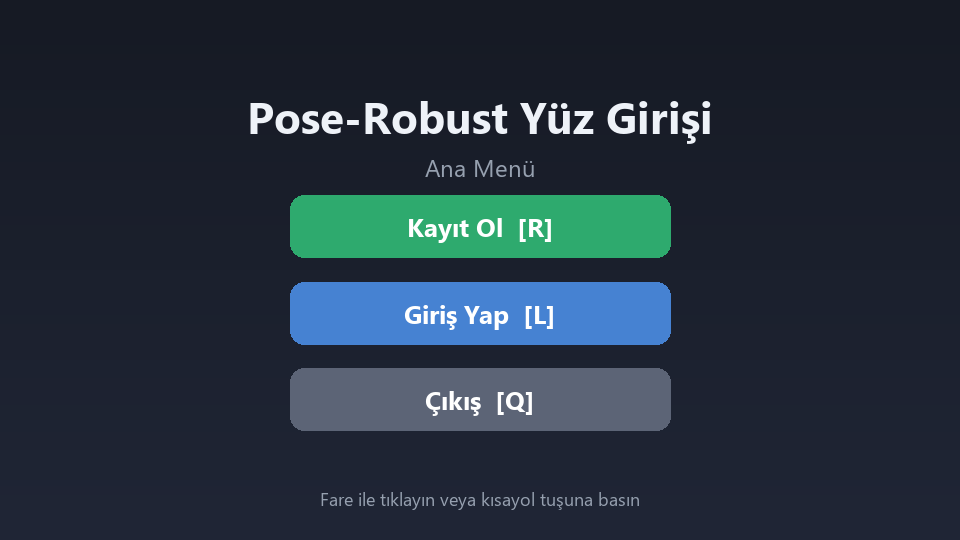
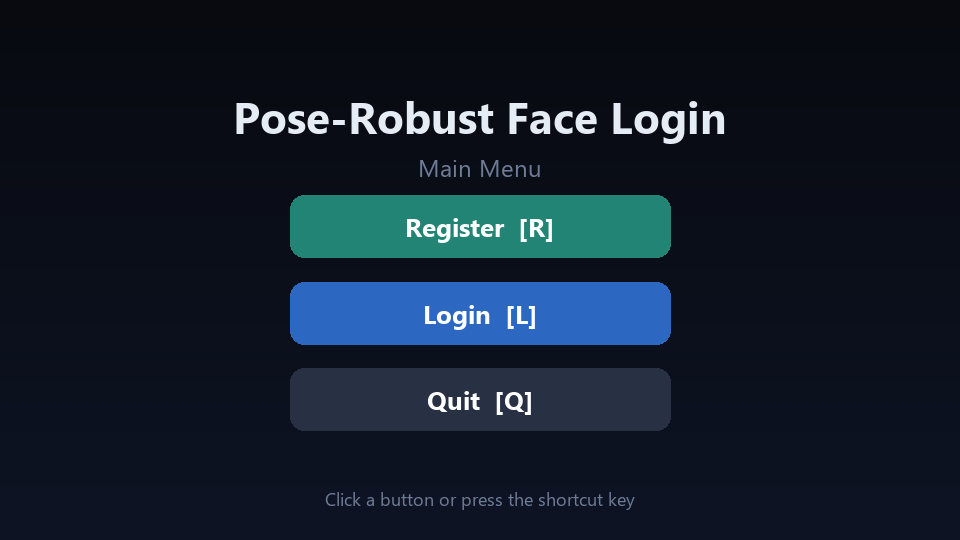
debug

diff --git a/face_login/ui/screens.py b/face_login/ui/screens.py
@@ -44,15 +44,15 @@ class ScreenRenderer:
         """Store screen geometry and the palette; build no window."""
         self.width = width
         self.height = height
-        self._bg_top: Color = (22, 26, 36)
-        self._bg_bottom: Color = (32, 38, 54)
-        self._card: Color = (40, 46, 62)
-        self._text: Color = (238, 242, 248)
-        self._muted: Color = (150, 160, 175)
-        self._green: Color = (46, 170, 110)
-        self._blue: Color = (70, 130, 210)
-        self._red: Color = (200, 72, 72)
-        self._gray: Color = (92, 100, 118)
+        self._bg_top: Color = (8, 10, 16)       # near-black
+        self._bg_bottom: Color = (14, 20, 36)   # deep navy
+        self._card: Color = (18, 26, 44)
+        self._text: Color = (230, 236, 246)
+        self._muted: Color = (110, 124, 152)
+        self._green: Color = (34, 132, 116)     # teal (register / success)
+        self._blue: Color = (44, 104, 194)      # deep blue (login / info)
+        self._red: Color = (184, 66, 66)
+        self._gray: Color = (40, 48, 68)        # dark slate (quit / back)
         self._tones = {"positive": self._green, "negative": self._red,
                        "info": self._blue, "success": self._green,
                        "error": self._red}
@@ -64,14 +64,14 @@ class ScreenRenderer:
         """Main menu with Register / Login / Quit choices."""
         img = self._blank()
         d = ImageDraw.Draw(img)
-        self._center(d, self.height * 0.16, "Pose-Robust Yüz Girişi", 44, True, self._text)
-        self._center(d, self.height * 0.28, "Ana Menü", 24, False, self._muted)
+        self._center(d, self.height * 0.16, "Pose-Robust Face Login", 44, True, self._text)
+        self._center(d, self.height * 0.28, "Main Menu", 24, False, self._muted)
         buttons = [
-            self._make_button(d, 0.42, "Kayıt Ol  [R]", "register", "r", self._green),
-            self._make_button(d, 0.58, "Giriş Yap  [L]", "login", "l", self._blue),
-            self._make_button(d, 0.74, "Çıkış  [Q]", "quit", "q", self._gray),
+            self._make_button(d, 0.42, "Register  [R]", "register", "r", self._green),
+            self._make_button(d, 0.58, "Login  [L]", "login", "l", self._blue),
+            self._make_button(d, 0.74, "Quit  [Q]", "quit", "q", self._gray),
         ]
-        self._center(d, self.height * 0.90, "Fare ile tıklayın veya kısayol tuşuna basın",
+        self._center(d, self.height * 0.90, "Click a button or press the shortcut key",
                      18, False, self._muted)
         return self._to_bgr(img), buttons
 
@@ -79,23 +79,23 @@ class ScreenRenderer:
         """Name-entry screen showing the typed text and Submit / Back actions."""
         img = self._blank()
         d = ImageDraw.Draw(img)
-        self._center(d, self.height * 0.18, "Kayıt — İsim Girin", 38, True, self._text)
+        self._center(d, self.height * 0.18, "Register — Enter Name", 38, True, self._text)
         bx1, by1, bx2, by2 = int(self.width*0.18), int(self.height*0.38), \
             int(self.width*0.82), int(self.height*0.50)
         d.rounded_rectangle([bx1, by1, bx2, by2], radius=12, fill=self._card,
                             outline=self._blue, width=2)
-        shown = name if name else "İsminizi yazın…"
+        shown = name if name else "Type your name…"
         color = self._text if name else self._muted
         d.text((bx1 + 20, by1 + (by2 - by1) // 2 - 18), shown + ("|" if name else ""),
                font=self._font(30, False), fill=color)
         buttons = [
-            self._make_button(d, 0.62, "Gönder  [Enter]", "submit", "", self._green,
+            self._make_button(d, 0.62, "Submit  [Enter]", "submit", "", self._green,
                               cx_frac=0.68, w=280),
-            self._make_button(d, 0.62, "Geri  [Esc]", "back", "", self._gray,
+            self._make_button(d, 0.62, "Back  [Esc]", "back", "", self._gray,
                               cx_frac=0.32, w=280),
         ]
         self._center(d, self.height * 0.86,
-                     "[Enter] Gönder    [Esc] Geri    [Backspace] Sil", 18, False, self._muted)
+                     "[Enter] Submit     [Esc] Back     [Backspace] Delete", 18, False, self._muted)
         return self._to_bgr(img), buttons
 
     def message(self, title: str, subtitle: str, tone: str) -> np.ndarray:
@@ -112,7 +112,7 @@ class ScreenRenderer:
         self._center(d, self.height * 0.56, title, 46, True, self._text)
         if subtitle:
             self._center(d, self.height * 0.68, subtitle, 26, False, self._muted)
-        self._center(d, self.height * 0.90, "Devam için bir tuşa basın", 18, False, self._muted)
+        self._center(d, self.height * 0.90, "Press any key to continue", 18, False, self._muted)
         return self._to_bgr(img)
 
     def scan_banner(self, bgr_frame: np.ndarray, text: str, tone: str) -> np.ndarray:

diff --git a/face_login/controller.py b/face_login/controller.py
@@ -24,11 +24,11 @@ from face_login.services.register import RegisterService
 _MAX_NAME = 24
 _WELCOME_SECONDS = 2.0
 _REASON_HINTS = {
-    QualityReason.FACE_TOO_SMALL: "Kameraya yaklaşın",
-    QualityReason.TOO_BLURRY: "Sabit durun",
-    QualityReason.LOW_DETECTION_SCORE: "Yüzünüzü net gösterin",
-    QualityReason.LOW_POSE_CONFIDENCE: "Yüzünüzü düz tutun",
-    QualityReason.INVALID_EMBEDDING: "Tekrar deneyin",
+    QualityReason.FACE_TOO_SMALL: "Move closer",
+    QualityReason.TOO_BLURRY: "Hold still",
+    QualityReason.LOW_DETECTION_SCORE: "Show your face clearly",
+    QualityReason.LOW_POSE_CONFIDENCE: "Keep your face straight",
+    QualityReason.INVALID_EMBEDDING: "Try again",
 }
 
 
@@ -136,34 +136,34 @@ class ScreenController:
             return self._to_menu()
         if state.complete:
             self._camera.close()
-            self._show_message("Kayıt Tamamlandı", self._active_name, "success")
+            self._show_message("Registration Complete", self._active_name, "success")
 
     def _scan_login(self) -> None:
         frame = self._read()
         if frame is None:
             return self._to_menu()
         face, pose, quality, embedding = self._pipeline(frame)
-        tone, text = "negative", "Yüz bulunamadı"
+        tone, text = "negative", "No face detected"
         if embedding is not None:
             result = self._login.login(embedding)
             if result.success:
-                self._active_name = result.user_name or "Kullanıcı"
+                self._active_name = result.user_name or "User"
                 self._camera.close()
                 self._welcome_at = perf_counter()
                 self._state = State.WELCOME
                 return
-            tone, text = "info", "Yüz taranıyor…"
+            tone, text = "info", "Scanning…"
         self._overlay.draw(frame.image, detected_face=face, pose=pose, quality=quality)
         display = self._screens.scan_banner(frame.image, text, tone)
         if (self._window.show(display) & 0xFF) == 27:
             self._to_menu()
 
     def _welcome(self) -> None:
-        frame = self._screens.message(f"Hoş geldin, {self._active_name}!",
-                                      "Giriş doğrulanıyor…", "success")
+        frame = self._screens.message(f"Welcome, {self._active_name}!",
+                                      "Verifying login…", "success")
         key = self._window.show(frame)
         if key != -1 or perf_counter() - self._welcome_at > _WELCOME_SECONDS:
-            self._show_message("Giriş Başarılı", self._active_name, "success")
+            self._show_message("Login Successful", self._active_name, "success")
 
     def _message(self) -> None:
         title, subtitle, tone = self._msg
@@ -194,14 +194,14 @@ class ScreenController:
 
     def _register_step(self, face, pose, quality, embedding, timestamp):
         if face is None:
-            return "negative", "Yüz bulunamadı"
+            return "negative", "No face detected"
         if quality is None:
-            return "info", "İşleniyor…"
+            return "info", "Processing…"
         if not quality.passed:
             return "negative", self._reason_hint(quality.reasons)
         result = self._register.process(pose, quality, embedding, timestamp=timestamp)
         if result.stored:
-            return "positive", f"Kaydedildi ({result.current_bin:.0f}°)"
+            return "positive", f"Captured ({result.current_bin:.0f}°)"
         return "info", self._direction_hint(self._tracker.state())
 
     def _submit_name(self) -> None:
@@ -223,18 +223,18 @@ class ScreenController:
         for reason in reasons:
             if reason in _REASON_HINTS:
                 return _REASON_HINTS[reason]
-        return "Kaliteyi artırın"
+        return "Improve quality"
 
     @staticmethod
     def _direction_hint(state) -> str:
         remaining = [b.yaw_center for b in state.remaining_bins]
         if not remaining:
-            return "Tamamlandı"
+            return "Complete"
         left = [y for y in remaining if y < 0]
         right = [y for y in remaining if y > 0]
         if len(left) > len(right):
-            return "Başınızı sola çevirin"
-        return "Başınızı sağa çevirin" if right else "Öne bakın"
+            return "Turn your head left"
+        return "Turn your head right" if right else "Look forward"
 
     # -- input & lifecycle -------------------------------------------------
 
@@ -282,7 +282,7 @@ class ScreenController:
             return True
         except CameraError as exc:
             self._logger.error("Camera open failed: %s", exc)
-            self._show_message("Kamera Açılamadı", "Cihazı kontrol edin", "error")
+            self._show_message("Camera Unavailable", "Check the device", "error")
             return False
 
     def _to_menu(self) -> None:

diff --git a/face_login/app.py b/face_login/app.py
@@ -8,6 +8,7 @@ math, or SQL — only composition and lifecycle.
 """
 from __future__ import annotations
 
+import shutil
 from pathlib import Path
 from typing import Optional
 
@@ -39,6 +40,7 @@ class FaceLoginApplication:
         self._logger = get_logger(__name__)
         cfg = self._config
 
+        self._prepare_model_dir(cfg.detection.model_name)
         Path(cfg.database.path).parent.mkdir(parents=True, exist_ok=True)
         self._database = Database(cfg.database.path, initialize=True)
         repository = Repository(self._database)
@@ -75,6 +77,19 @@ class FaceLoginApplication:
     def __exit__(self, exc_type: object, exc: object, tb: object) -> None:
         """Always release resources when leaving a ``with`` block."""
         self.close()
+
+    @staticmethod
+    def _prepare_model_dir(model_name: str) -> None:
+        """Remove an empty model placeholder so InsightFace can auto-download.
+
+        An existing but empty ``models/<name>/`` directory makes InsightFace
+        skip the download and then fail (no models found). If the folder holds
+        no ``.onnx`` files it is removed so the pack downloads on first use;
+        a folder with real weights is left untouched.
+        """
+        model_dir = Path("models") / model_name
+        if model_dir.exists() and not any(model_dir.glob("*.onnx")):
+            shutil.rmtree(model_dir, ignore_errors=True)
 
     def run(self) -> None:
         """Run the screen-driven application loop until the user quits."""

diff --git a/README.md b/README.md
@@ -124,10 +124,10 @@ pip install opencv-python insightface numpy pyyaml pillow onnxruntime
 #   pip install onnxruntime-gpu
 ```
 
-**Model download.** The `buffalo_l` pack (~275 MB) is fetched automatically by
-InsightFace on first run into `models/buffalo_l/`. If the repository ships an
-empty `models/buffalo_l/` placeholder, remove it first so the download can
-proceed, or place the pack's `.onnx` files (including `w600k_r50.onnx`) there
+**Model download.** The `buffalo_l` pack (~275 MB) is downloaded automatically by
+InsightFace into `models/buffalo_l/` on first run — the app clears an empty
+placeholder folder if one is present so the download can proceed. To run
+offline, place the pack's `.onnx` files (including `w600k_r50.onnx`) there
 manually.
 
 ```bash
